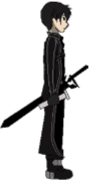
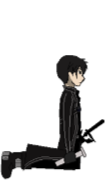
Almost Down!!

diff --git a/core/src/coma/game/Ultimate.java b/core/src/coma/game/Ultimate.java
@@ -71,10 +71,10 @@ public class Ultimate {
                     moveSpeedX = 0;
                 } break;
                 case 4: {
-                    spawnX = 220;
+                    spawnX = Mathf.CalRange(220f, 1600f);
                     spawnDelay = Mathf.CalRange(0, 90f);
                     damage = Mathf.CalRange(300f, 500f);
-                    moveSpeedY = 0;
+                    moveSpeedY = 30f;
                     moveSpeedX = 0;
                 } break;
                 default: throw new RangeException((short) 0, "Wrong parameter input.");
@@ -82,7 +82,7 @@ public class Ultimate {
 
             UltimateObj obj = new UltimateObj(era, spawnDelay, damage, moveSpeedX, moveSpeedY);
 
-            obj.SetPosition(spawnX, era == 4 ? EXPLODE_POS_Y : SPAWN_POS_Y);
+            obj.SetPosition(spawnX, SPAWN_POS_Y);
 
             Renderer.AddComponents(obj.image);
 

diff --git a/core/src/coma/game/GameObject.java b/core/src/coma/game/GameObject.java
@@ -292,6 +292,11 @@ class MeleeUnit extends Unit {
 
                     if (this.image.isFlipped) this.image.Move(this.displacedTranslateX = -110, 0);
                 }
+                else if (state == 7) {
+                    this.image.SetSize(105, Float.NaN);
+
+                    if (this.image.isFlipped) this.image.Move(this.displacedTranslateX = -15, 0);
+                }
             } break;
             default: {
                 throw new RangeException((short) 0, "Wrong parameter input.");
